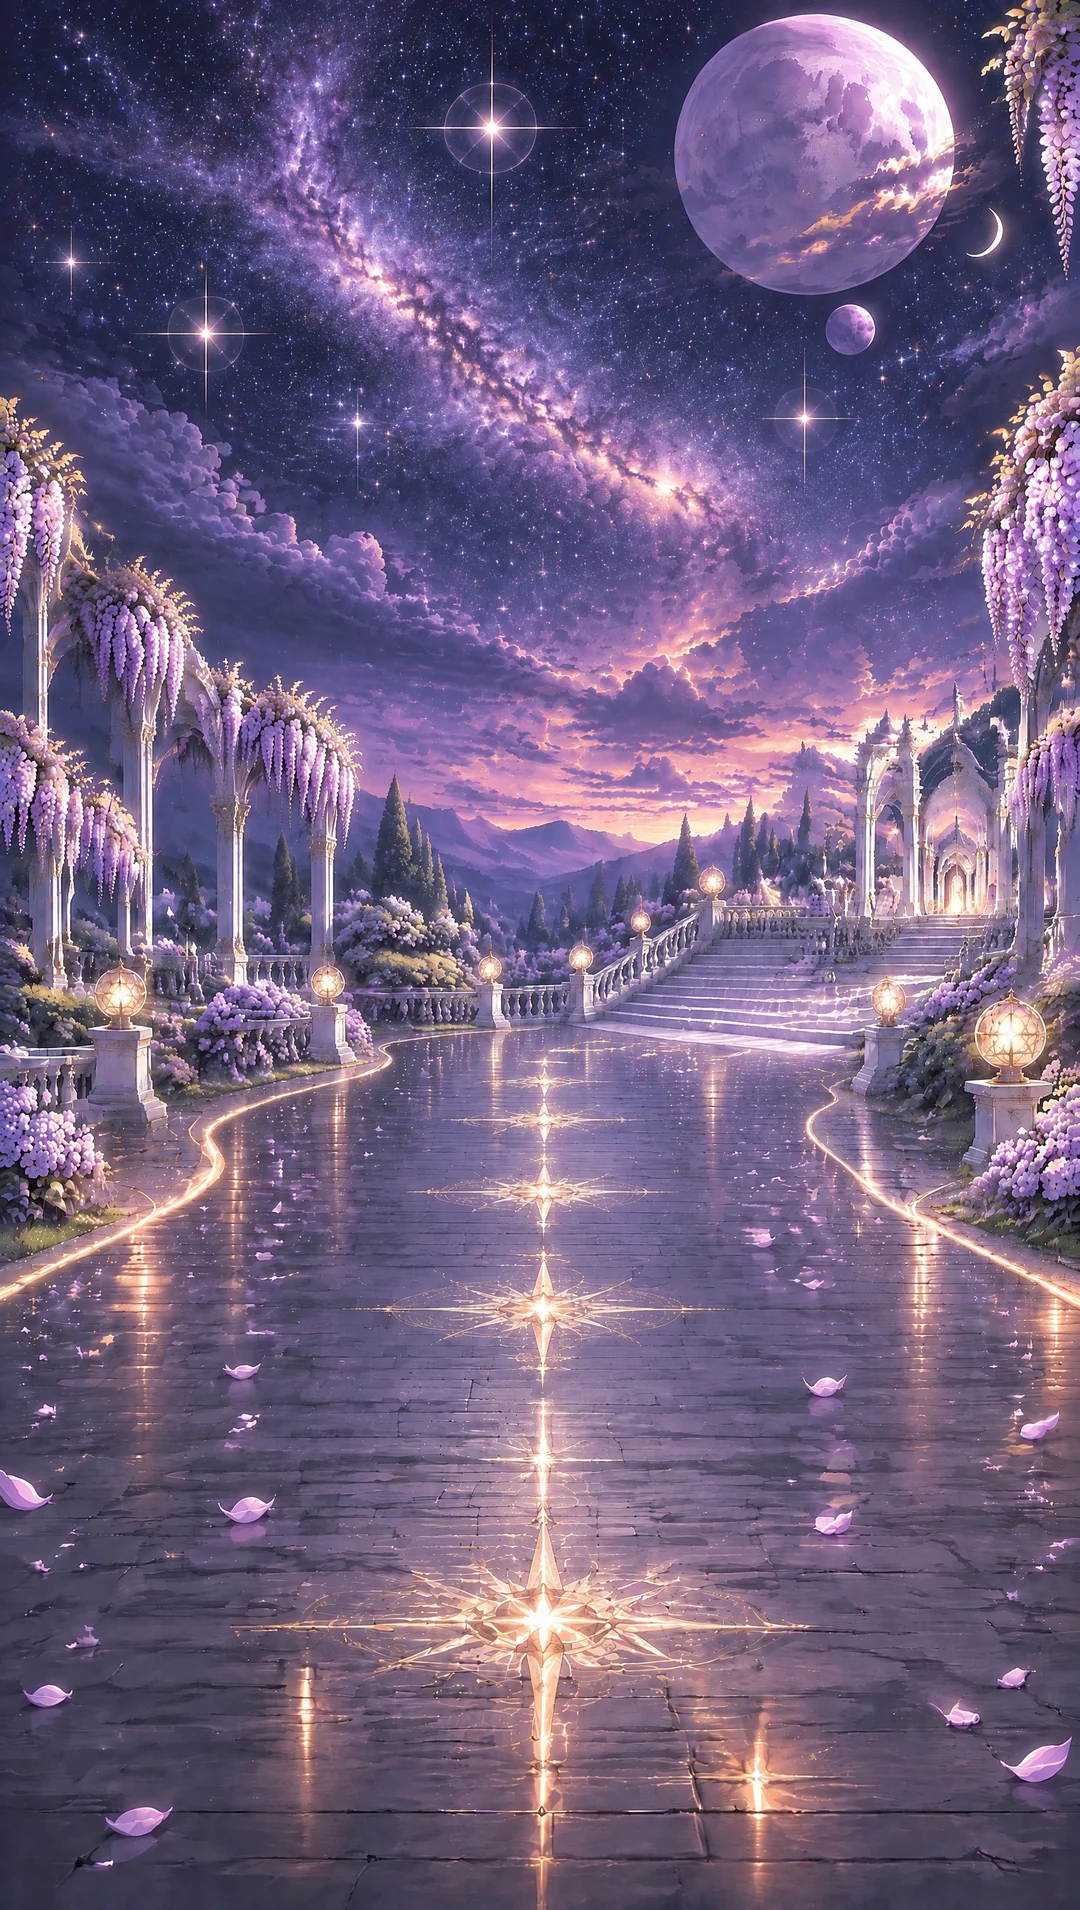
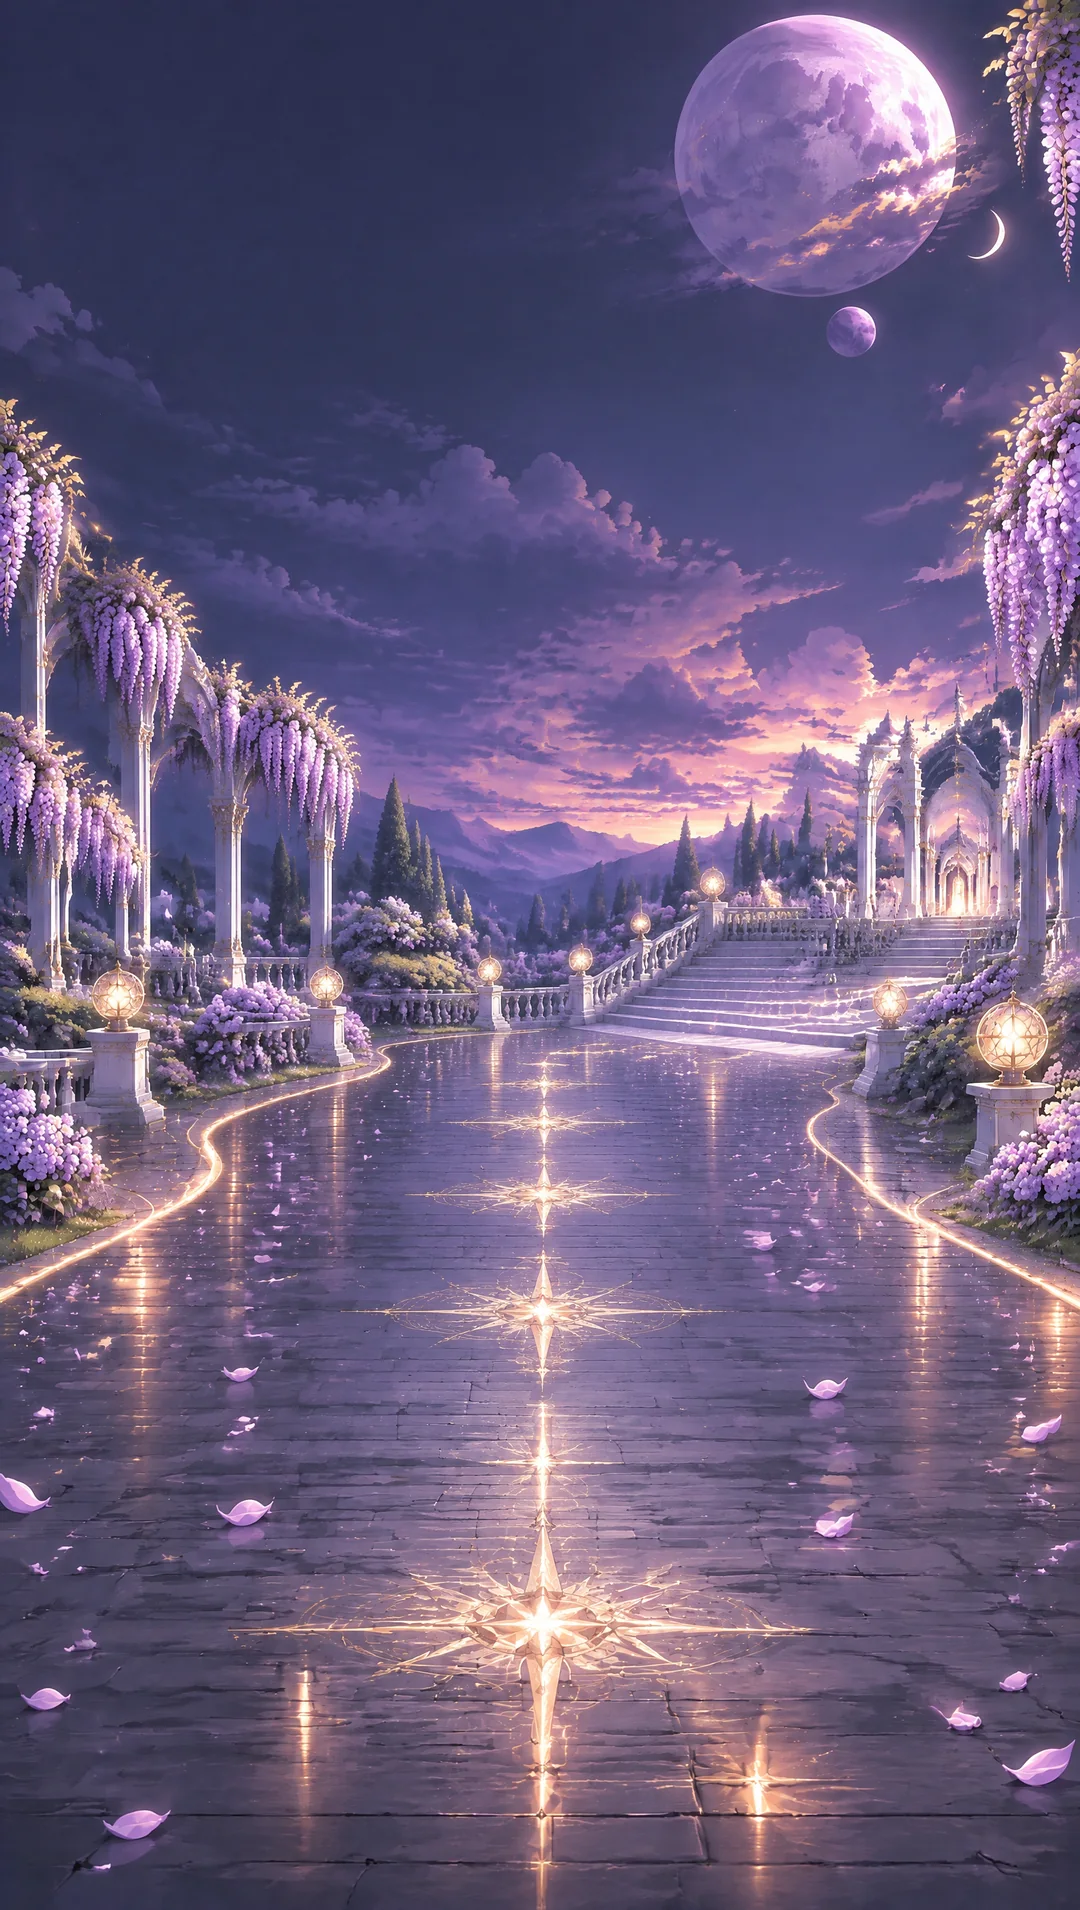
A12: vuelve el fondo anterior y menos estrellas animadas (62, 7 con destello)
Claude-Session: https://claude.ai/code/session_01CL7wg269cKFeX8NUniz13e

diff --git a/kura/a01/js/a12.js b/kura/a01/js/a12.js
@@ -84,7 +84,7 @@ function makeRig(canvas, imgs) {
 }
 
 /* ---------- Cielo estrellado (como el de A01) ----------
-   El fondo trae su cielo pintado (vía láctea y estrellas, hecho con Higgsfield). Cada estrella pintada se detectó
+   Pocas estrellas sobre el cielo del fondo (sin saturarlo), en posiciones fijas
    (data/estrellas-a12.json: [x, y, tamaño] en proporción del fondo) y aquí cobra vida en su lugar: titila, las grandes
    llevan destello en cruz y un destello óptico horizontal lento como los de A01; de vez en cuando cruza una fugaz. */
 function makeSky(canvas) {
